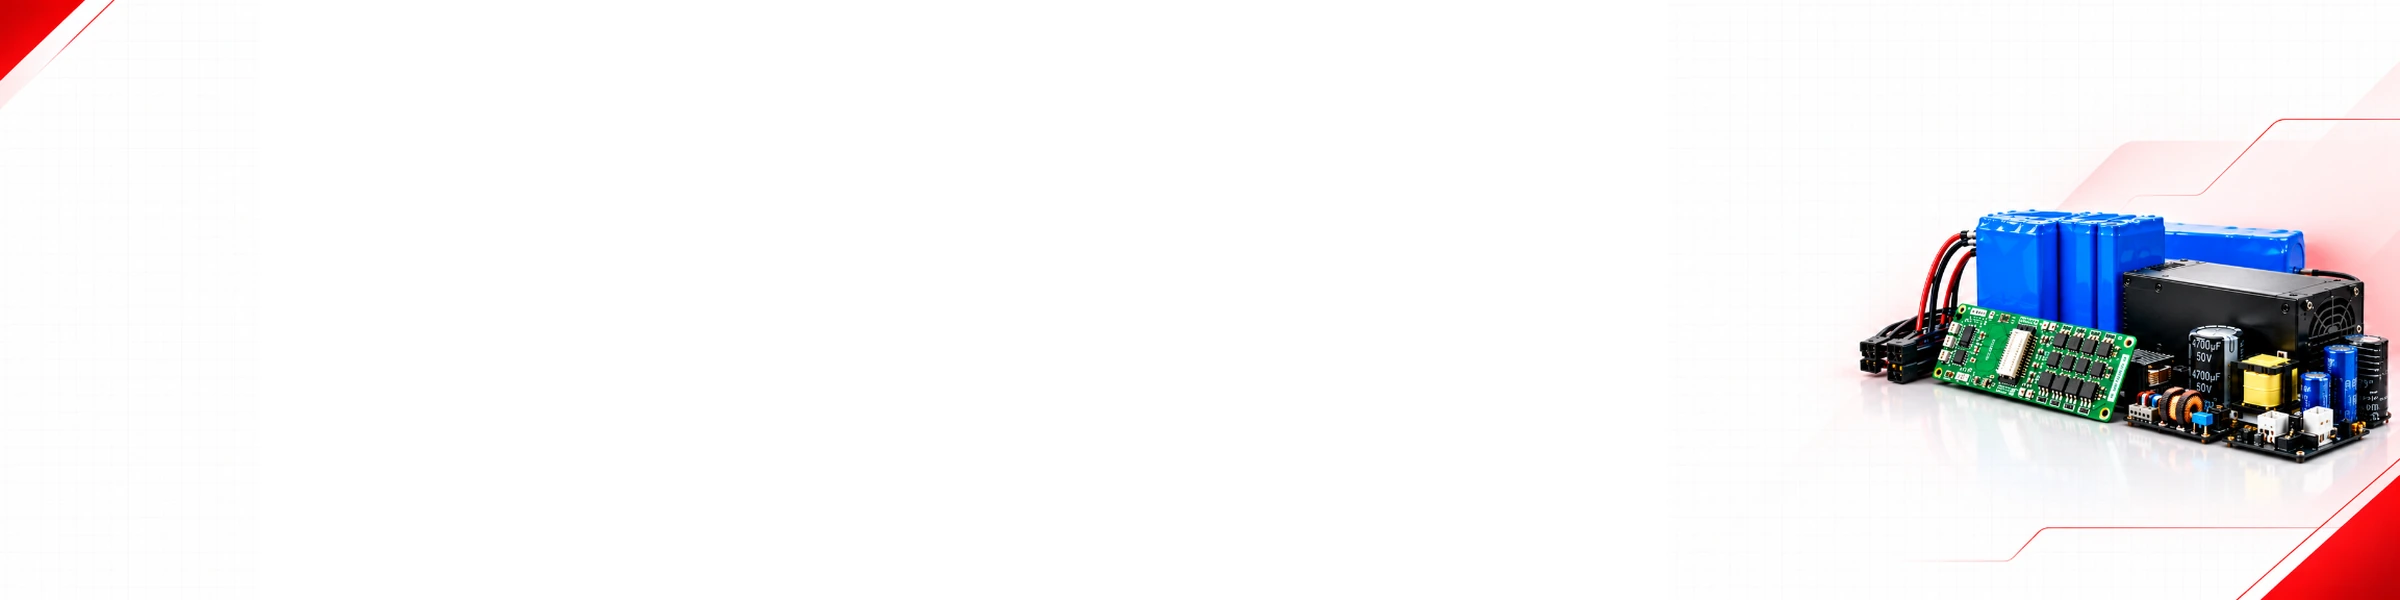
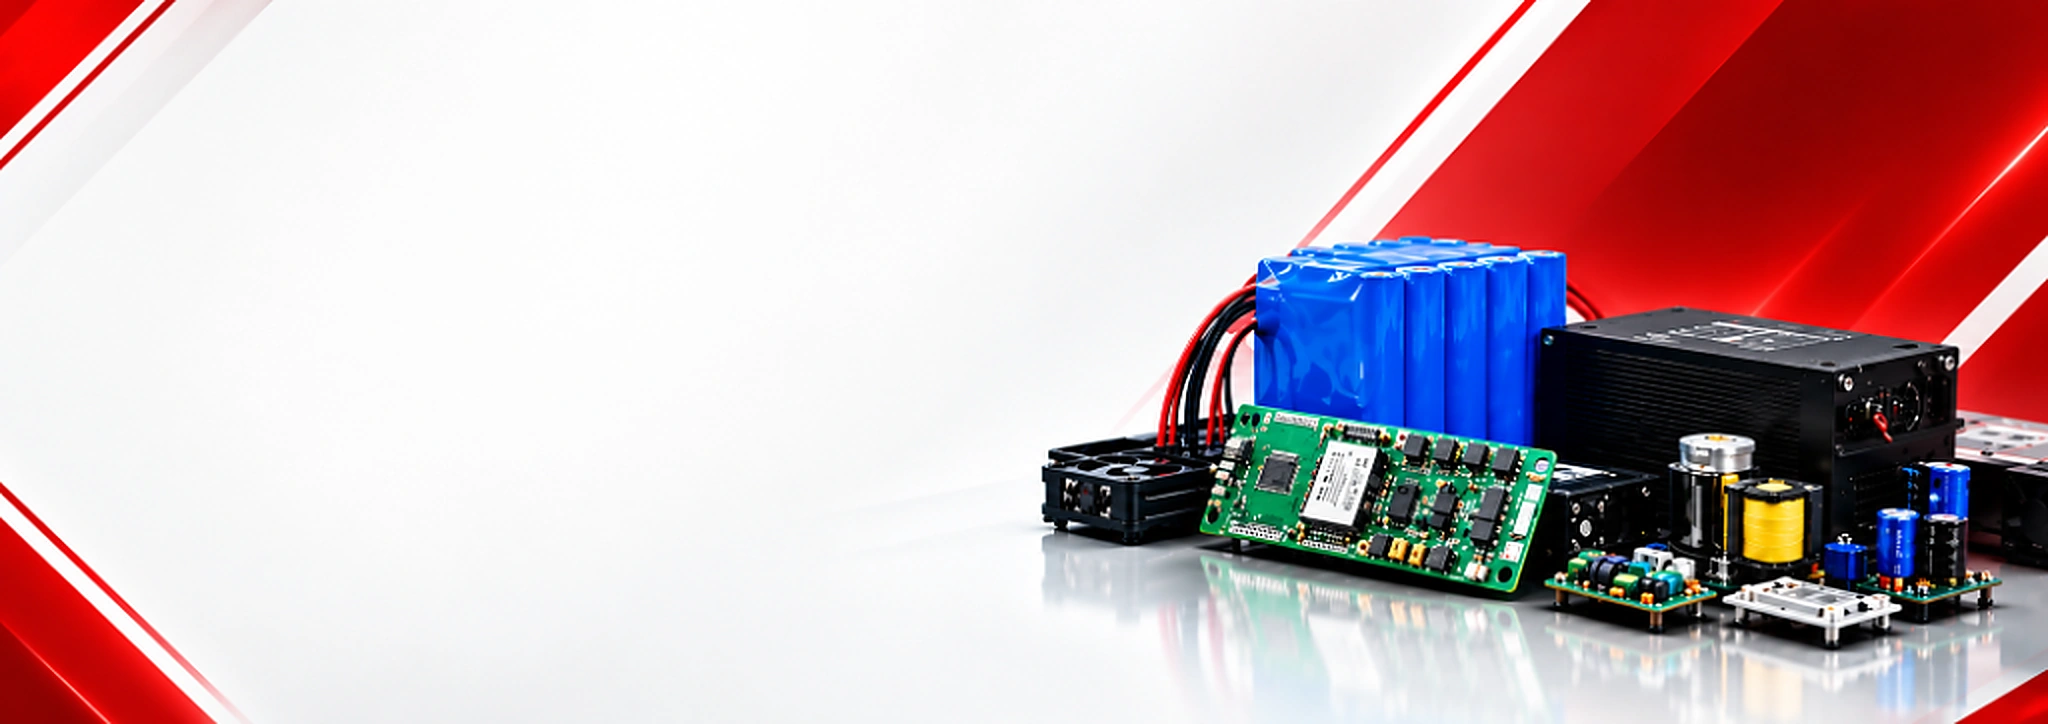
hero

diff --git a/frontend/src/components/Hero.css b/frontend/src/components/Hero.css
@@ -9,12 +9,11 @@
   min-height: calc(100vh - 122px);
   height: auto;
   background-color: #ffffff;
-  background-image: 
-    linear-gradient(to right, #ffffff 0%, #ffffff 42%, rgba(255, 255, 255, 0.94) 54%, rgba(255, 255, 255, 0.4) 68%, rgba(255, 255, 255, 0) 80%),
-    url('/hero-bg.png');
-  background-size: 100% 100%, cover;
-  background-position: left center, right center;
-  background-repeat: no-repeat, no-repeat;
+  background-image: url('/hero-bg.png');
+  background-size: cover;
+  background-position: right center;
+  background-repeat: no-repeat;
+  image-rendering: -webkit-optimize-contrast;
   display: flex;
   align-items: center;
   padding: 30px 0;
@@ -250,11 +249,11 @@
     min-height: calc(100vh - 112px);
     height: auto;
     padding: 24px 0;
-    background-image: 
-      linear-gradient(to right, #ffffff 0%, #ffffff 46%, rgba(255, 255, 255, 0.96) 57%, rgba(255, 255, 255, 0.25) 72%, rgba(255, 255, 255, 0) 84%),
-      url('/hero-bg.png');
-    background-size: 100% 100%, auto 90%;
-    background-position: left center, calc(100% + 25px) center;
+    background-image: url('/hero-bg.png');
+    background-size: cover;
+    background-position: right center;
+    background-repeat: no-repeat;
+    image-rendering: -webkit-optimize-contrast;
   }
 
   .hero-content-wrapper {
@@ -330,11 +329,11 @@
   .etosm-hero {
     margin-top: 104px;
     min-height: calc(100vh - 104px);
-    background-image: 
-      linear-gradient(to right, #ffffff 0%, #ffffff 50%, rgba(255, 255, 255, 0.96) 62%, rgba(255, 255, 255, 0.3) 76%, rgba(255, 255, 255, 0) 88%),
-      url('/hero-bg.png');
-    background-size: 100% 100%, auto 84%;
-    background-position: left center, calc(100% + 50px) center;
+    background-image: url('/hero-bg.png');
+    background-size: cover;
+    background-position: calc(100% + 40px) center;
+    background-repeat: no-repeat;
+    image-rendering: -webkit-optimize-contrast;
   }
 
   .hero-left-col {
